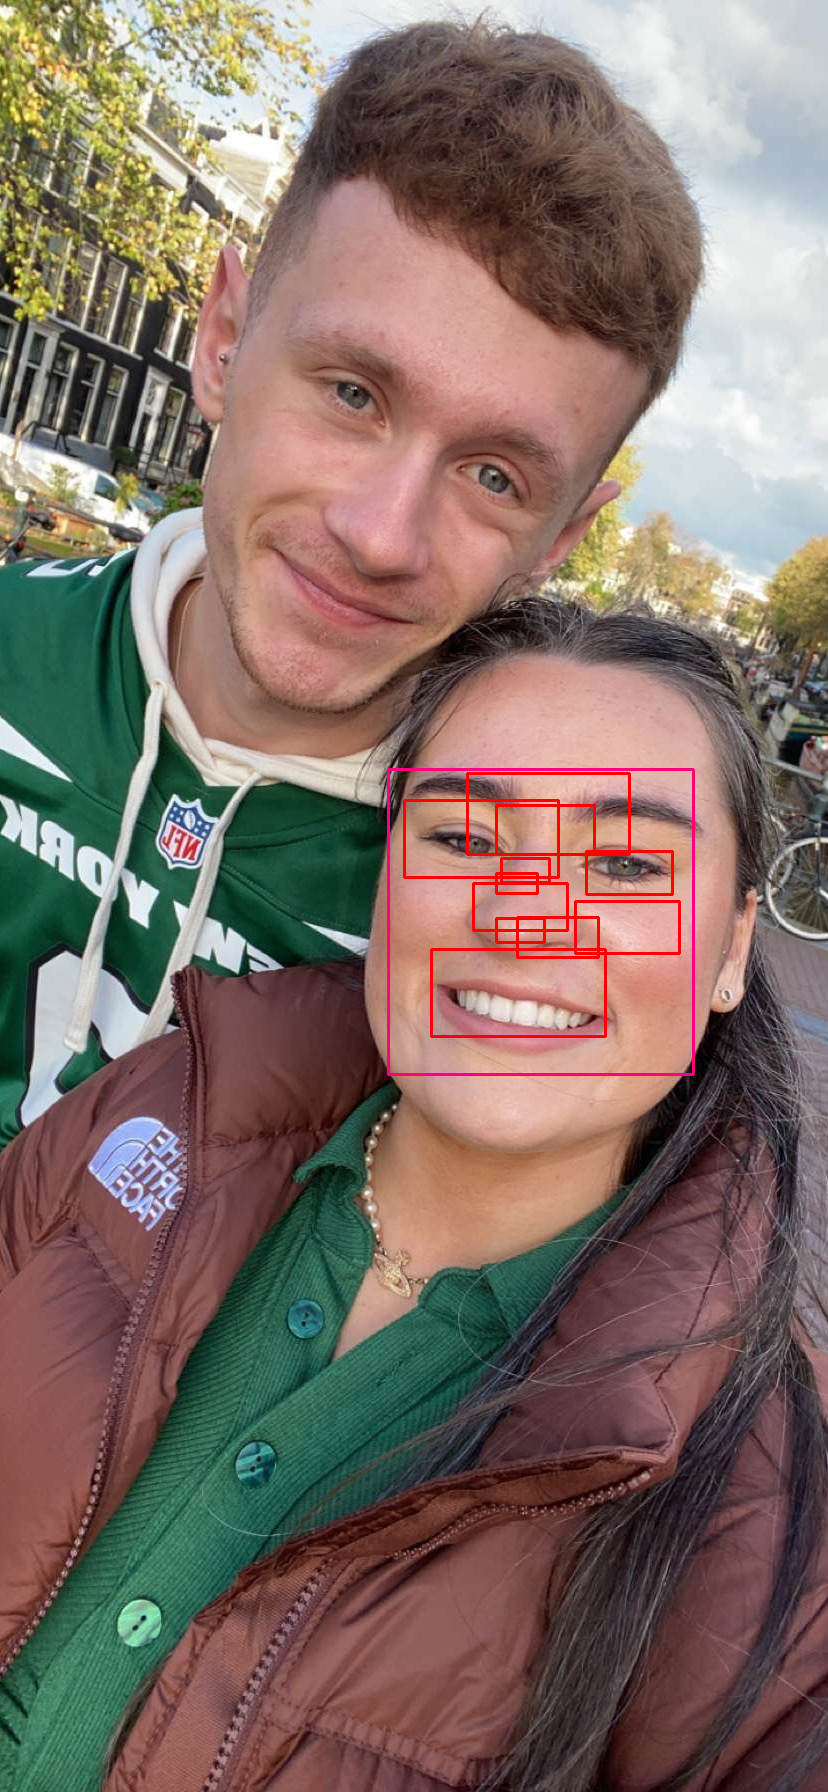
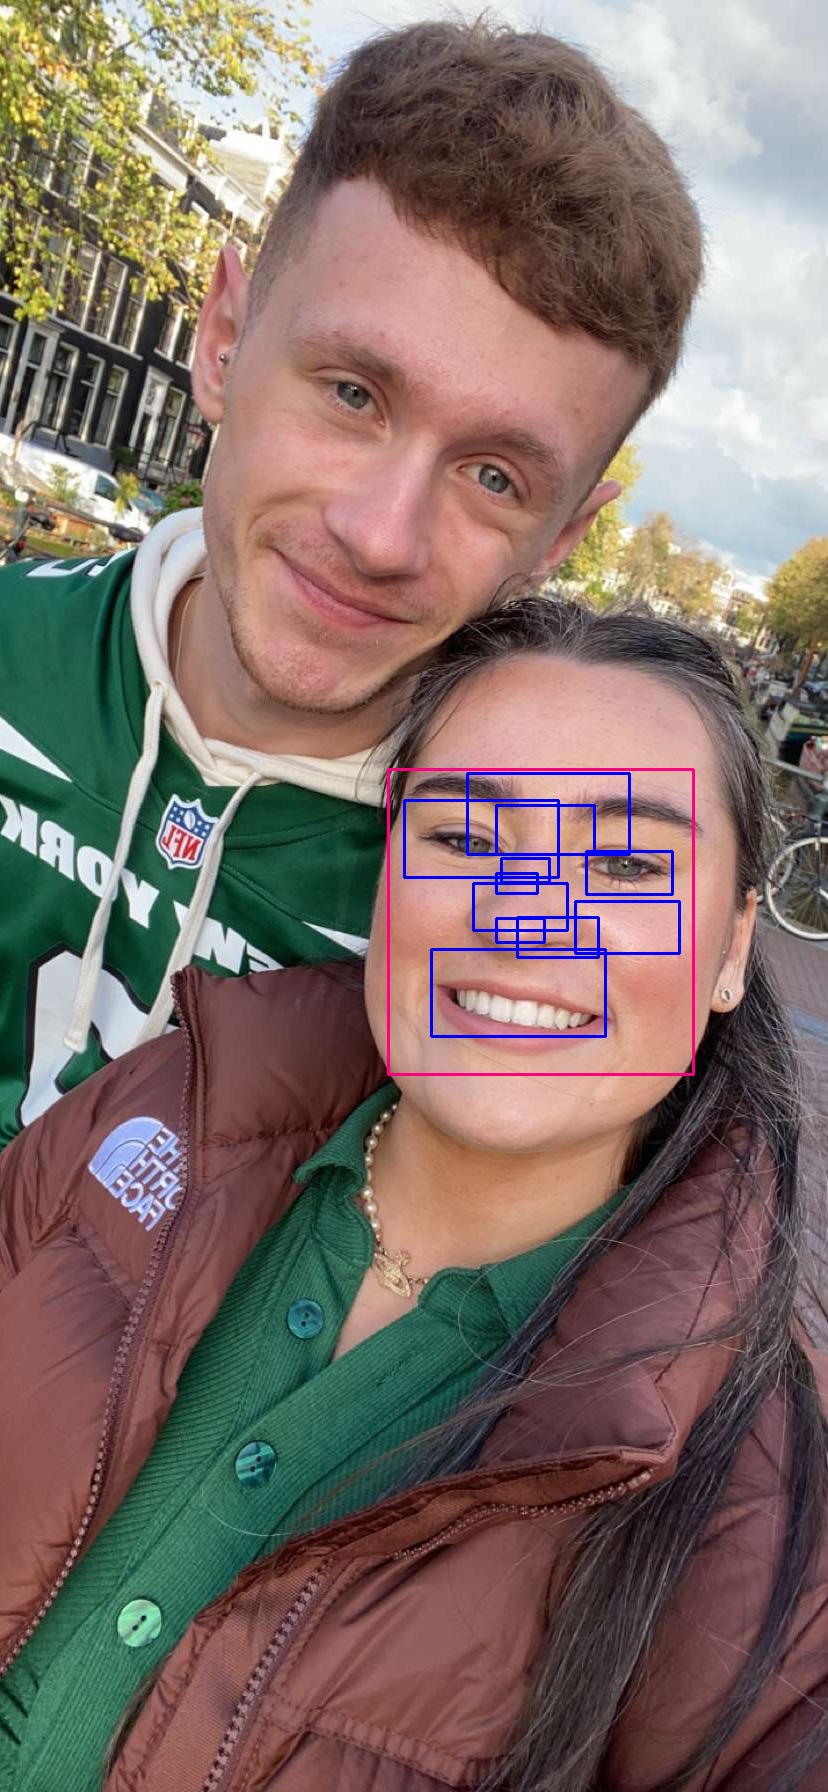
Worked on Project report

diff --git a/Code/Smile.py b/Code/Smile.py
@@ -7,13 +7,13 @@ smileClassifierFile = 'haarcascade_smile.xml'
 faceClassifier = cv2.CascadeClassifier(f'cascadeClassifiers/{faceClassifierFile}')
 smileClassifier = cv2.CascadeClassifier(f'cascadeClassifiers/{smileClassifierFile}')
 
-fileName = 'erin5.JPG'
+fileName = 'budapest.JPG'
 img = cv2.imread(f'images/{fileName}')
 gray = cv2.cvtColor(img, cv2.COLOR_BGR2GRAY)
 
 faces = faceClassifier.detectMultiScale(gray, 1.3, 5)
 
-if faces == ():
+if len(faces) == 0:
     print("No faces found")
 else:
     for (x, y, w, h) in faces:
@@ -25,7 +25,7 @@ else:
         smiles = smileClassifier.detectMultiScale(roi_gray)
 
         for (sx, sy, sw, sh) in smiles:
-            cv2.rectangle(roi_color, (sx, sy), ((sx + sw), (sy + sh)), (0, 0, 255), 2)
+            cv2.rectangle(roi_color, (sx, sy), ((sx + sw), (sy + sh)), (255, 0, 0), 2)
             cv2.imshow('img', img)
 
     cv2.waitKey(0)

diff --git a/Code/FaceAndEye.py b/Code/FaceAndEye.py
@@ -38,6 +38,6 @@ else:
     faceClassifierOutput = faceClassifierFile.split(".")
     eyeClassifierOutput = eyeClassifierFile.split(".")
     outputFileName = fileName.split('.')
-    cv2.imwrite(f'outputImages/BLACK{outputFileName[0]}({faceClassifierOutput[0]}&{eyeClassifierOutput[0]}).png', img)
+    cv2.imwrite(f'outputImages/{outputFileName[0]}({faceClassifierOutput[0]}&{eyeClassifierOutput[0]}).png', img)
 
     cv2.destroyAllWindows()
